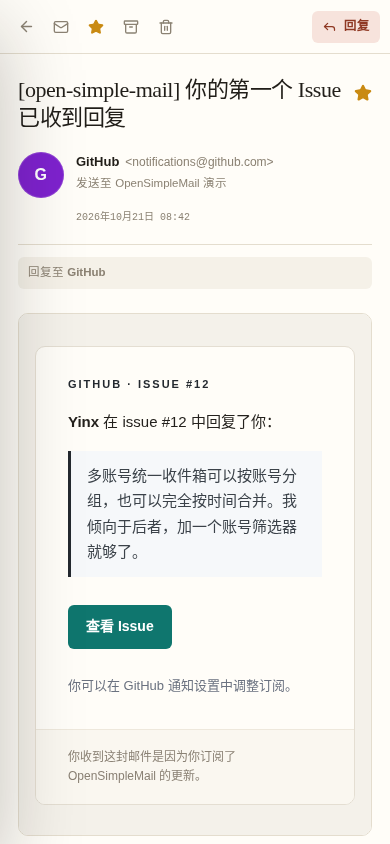
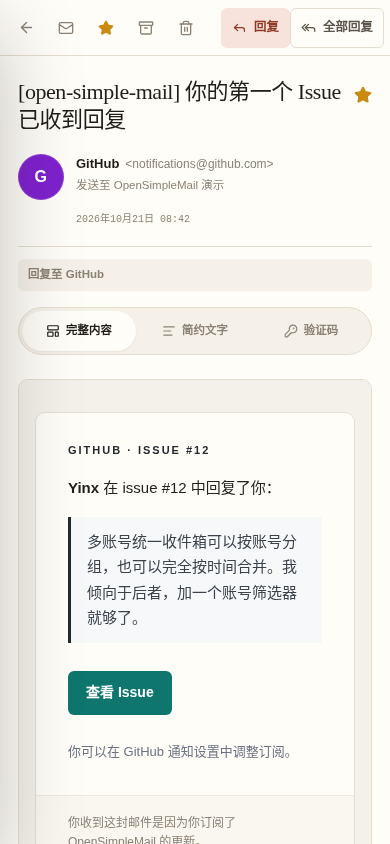
Size message-list controls for thumbs
- Row actions are 44px with 19px icons on touch screens; the list header,
  reader toolbar, sidebar rows, form fields, bulk bar and composer toolbar
  reach 40px.
- The phone row drops to avatar + text + star + delete; mark read/unread
  stays in the reader toolbar and the bulk bar.
- The checkbox takes over the avatar slot in selection mode, long-press
  starts a selection, and a tap while selecting toggles the row.
- icon-button no longer shrinks inside a tight flex row, and the folder
  title stays on one line next to the icon-only mark-all-read button.

diff --git a/apps/web/src/components/MailList.tsx b/apps/web/src/components/MailList.tsx
@@ -528,7 +528,9 @@ export function MailList({
                           : t('mail.row.star')}
                     </span>
                   ) : null}
-                  {/* A label so the whole 40px slot toggles the checkbox on touch. */}
+                  {/* A label so the whole 40px slot toggles the checkbox on touch; the
+                      input inside it is the keyboard target, so the label needs no key handler. */}
+                  {/* biome-ignore lint/a11y/useKeyWithClickEvents: the nested checkbox is focusable */}
                   <label className="mail-row__check" onClick={(event) => event.stopPropagation()}>
                     <input
                       type="checkbox"
